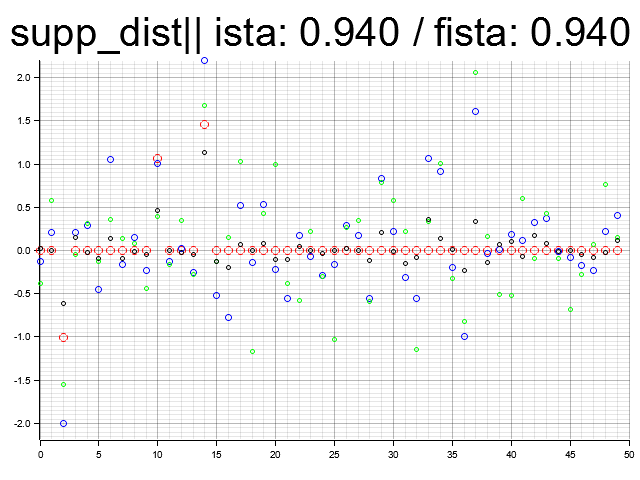
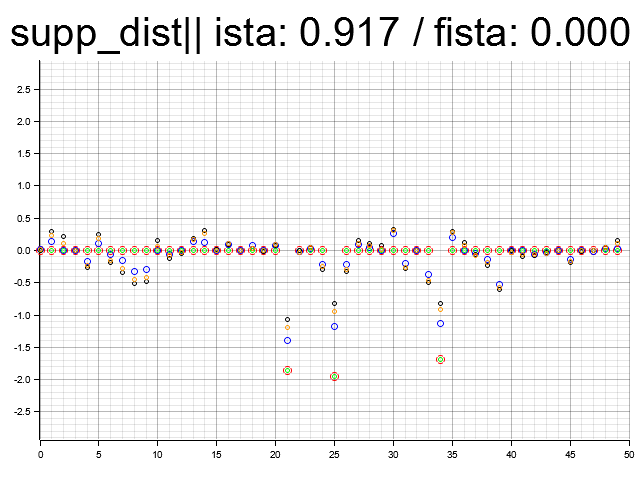
a

Changed region(s): [[0.0312, 0.125, 1.0, 0.9375], [0.875, 0.0312, 0.9688, 0.0938], [0.5312, 0.0312, 0.625, 0.0938]]

diff --git a/src/lasso_alg/tests.rs b/src/lasso_alg/tests.rs
@@ -1,4 +1,6 @@
-use crate::prelude::*;
+use plotters::style::full_palette::ORANGE;
+
+use super::*;
 
 #[test]
 fn lasso_1sample_test() {
@@ -9,7 +11,7 @@ fn lasso_1sample_test() {
     let output_data = matrix.dot(&input_data);
 
     let lambda = 1e-2;
-    let iter_num = 5;
+    let iter_num = 2000;
     let threshold = 1e-20;
     let supp_err_range = 1e-2;
     let lasso_ista = LassoIsta::new(iter_num, threshold);
@@ -20,10 +22,14 @@ fn lasso_1sample_test() {
     let fista_result = lasso_fista
         .solve(&matrix, &output_data, lambda)
         .expect("can't solve fista");
-    let irls = LassoIrls::new(iter_num, threshold);
+    let irls = LassoIrls::new(iter_num, threshold, 1e-4);
     let irls_result = irls
         .solve(&matrix, &output_data, lambda)
-        .expect("can't solve lasso's ista");
+        .expect("can't solve lasso's irls");
+    let ssf = LassoSSF::new(iter_num, threshold);
+    let ssf_result = ssf
+        .solve(&matrix, &output_data, lambda)
+        .expect("can't solve lasso's ssf");
 
     //Draw ista_result, fista_result, and input_data
     //描画先をBackendとして指定。ここでは画像に出力するためBitMapBackend
@@ -77,6 +83,12 @@ fn lasso_1sample_test() {
         irls_result.iter().enumerate().map(|(i, x)| (i, *x)),
         2,
         &BLACK,
+    );
+    chart.draw_series(point_series).unwrap();
+    let point_series = PointSeries::<_, _, Circle<_, _>, _>::new(
+        ssf_result.iter().enumerate().map(|(i, x)| (i, *x)),
+        2,
+        &ORANGE,
     );
     chart.draw_series(point_series).unwrap();
 }

diff --git a/src/lasso_alg/irls.rs b/src/lasso_alg/irls.rs
@@ -3,20 +3,23 @@ use crate::prelude::*;
 pub struct LassoIrls {
     iter_num: usize,
     threshold: f64,
+    upsilon: f64,
 }
 
 impl LassoIrls {
     #[allow(dead_code)]
-    pub fn new(iter_num: usize, threshold: f64) -> Self {
+    pub fn new(iter_num: usize, threshold: f64, upsilon: f64) -> Self {
         Self {
             iter_num,
             threshold,
+            upsilon,
         }
     }
     #[allow(dead_code)]
-    pub fn set(&mut self, iter_num: usize, threshold: f64) {
+    pub fn set(&mut self, iter_num: usize, threshold: f64, upsilon: f64) {
         self.iter_num = iter_num;
         self.threshold = threshold;
+        self.upsilon = upsilon;
     }
 }
 
@@ -32,7 +35,6 @@ impl LassoAlg for LassoIrls {
         let mut x: Array1<f64> = ArrayBase::ones(mat.shape()[1]);
         let mut prev_x;
         let mut weights = x.clone();
-        let e = 1e-2;
 
         for _ in 0..self.iter_num {
             //update x, weights
@@ -43,7 +45,7 @@ impl LassoAlg for LassoIrls {
             prev_x = x;
             x = conjugate_gradient(&temp, &mat.t().dot(y), 15, 0.).unwrap();
             for i in 0..x.shape()[0] {
-                weights[i] = x[i].abs() + e;
+                weights[i] = x[i].abs() + self.upsilon;
             }
 
             if (x.clone() - prev_x).norm_l2() < self.threshold {

diff --git a/src/lasso_alg/ssf.rs b/src/lasso_alg/ssf.rs
@@ -1,0 +1,48 @@
+use crate::prelude::*;
+
+pub struct LassoSSF {
+    iter_num: usize,
+    threshold: f64,
+}
+
+impl LassoSSF {
+    #[allow(dead_code)]
+    pub fn new(iter_num: usize, threshold: f64) -> Self {
+        Self { iter_num, threshold }
+    }
+    #[allow(dead_code)]
+    pub fn set(&mut self, iter_num: usize, threshold: f64) {
+        self.iter_num = iter_num;
+        self.threshold = threshold;
+    }
+}
+
+impl LassoAlg for LassoSSF {
+    fn solve(&self, mat: &Array2<f64>, y: &Array1<f64>, lambda: f64) -> Result<Array1<f64>> {
+        //check data
+        match is_underestimated_sys(mat, y) {
+            Err(msg) => return Err(msg),
+            Ok(_) => (),
+        }
+
+        //initialization
+        let mut x: Array1<f64> = ArrayBase::zeros(mat.shape()[1]);
+        let mut prev_x;
+        let mut r = y.clone();
+        let (_, s, _) = mat.svd(false, false).unwrap();
+        let c = s.norm_max().exp2();
+
+        for _ in 0..self.iter_num {
+            let e = mat.t().dot(&r);
+            prev_x = x;
+            x = st_array1(lambda / c, &(&prev_x + e / c));
+            r = y - mat.dot(&x);
+
+            if (prev_x - &x).norm_l2() < self.threshold {
+                break;
+            }
+        }
+
+        Ok(x)
+    }
+}

diff --git a/src/lasso_alg/mod.rs b/src/lasso_alg/mod.rs
@@ -7,6 +7,7 @@ mod fista;
 mod irls;
 mod ista;
 mod ista_lipshitz_search;
+mod ssf;
 #[cfg(test)]
 mod tests;
 
@@ -16,6 +17,7 @@ pub use fista::LassoFista;
 pub use irls::LassoIrls;
 pub use ista::LassoIsta;
 pub use ista_lipshitz_search::LassoIstaLipshitzSearch;
+pub use ssf::LassoSSF;
 
 pub trait LassoAlg {
     fn solve(&self, mat: &Array2<f64>, y: &Array1<f64>, lambda: f64) -> Result<Array1<f64>>;

diff --git a/src/sparse_alg/matching_pursuit/tests.rs b/src/sparse_alg/matching_pursuit/tests.rs
@@ -1,4 +1,5 @@
 use crate::prelude::*;
+
 #[test]
 fn mp_1sample_test() {
     std::env::set_var("RUST_BACKTRACE", "1");

diff --git a/src/sparse_alg/l1_relaxzation/tests.rs b/src/sparse_alg/l1_relaxzation/tests.rs
@@ -1,4 +1,4 @@
-use crate::prelude::*;
+use super::*;
 
 #[test]
 fn l1_relax_1sample_test() {
